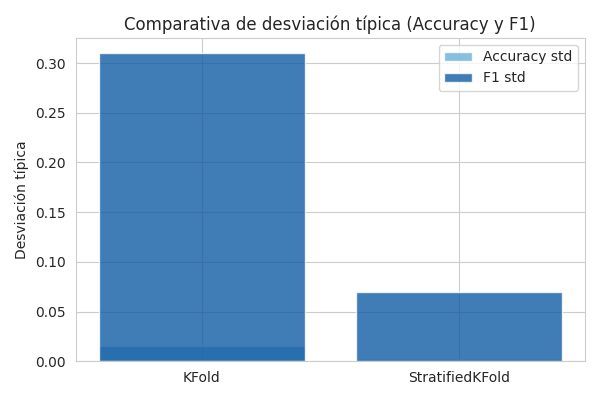
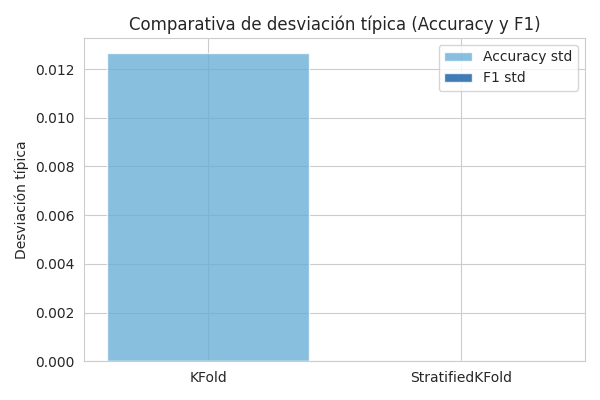
feat: Modify tarea3

diff --git a/P3-documentos/python/tarea3.py b/P3-documentos/python/tarea3.py
@@ -6,6 +6,13 @@ import pandas as pd
 
 df, X, y = cargar_dataset()
 
+# Eliminar variable trampa del DataFrame
+df = df.drop(columns=["ID_Hospital_Filtro"])
+
+# Reconstruir X sin la variable trampa
+X = df.drop(columns=["Clase"]).values
+y = df["Clase"].values
+
 model = LogisticRegression(max_iter=200)
 
 kf = KFold(n_splits=5, shuffle=True, random_state=42)

diff --git a/P3-documentos/python/utils.py b/P3-documentos/python/utils.py
@@ -1,7 +1,7 @@
 import pandas as pd
 
 def cargar_dataset():
-    df = pd.read_csv("data/pacientes_riesgo.csv")
+    df = pd.read_csv("../data/pacientes_riesgo.csv")
     X = df.drop(columns=["Clase"]).values
     y = df["Clase"].values
     return df, X, y
